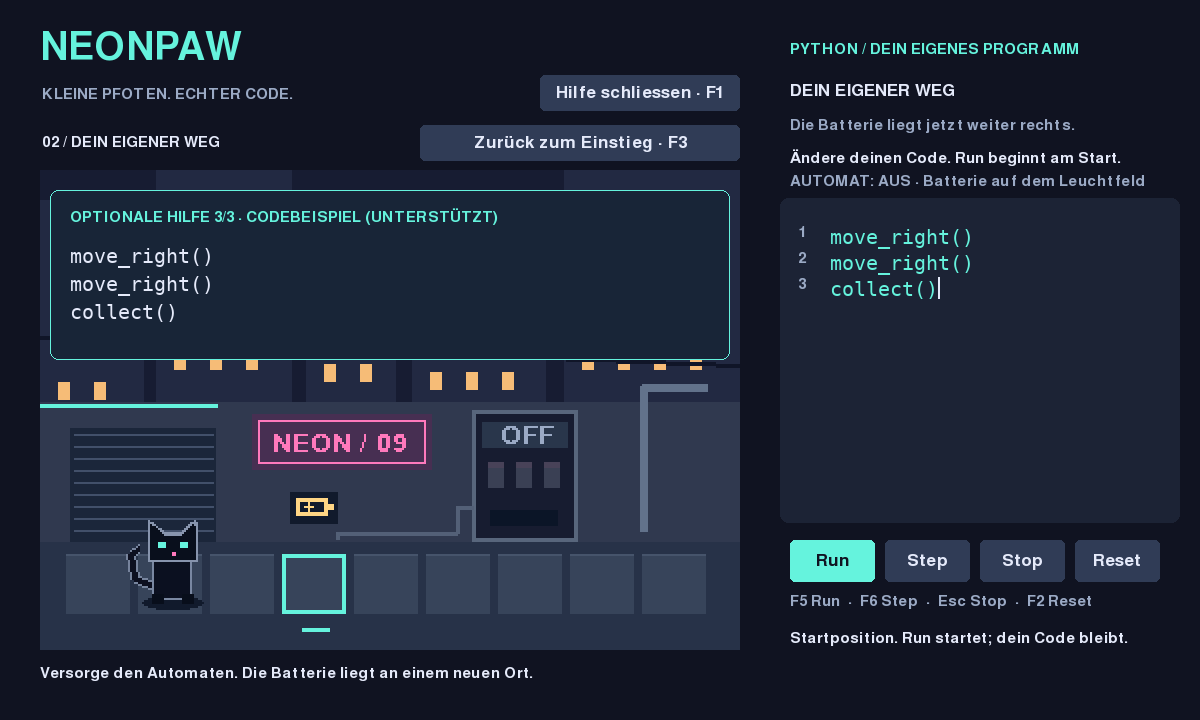
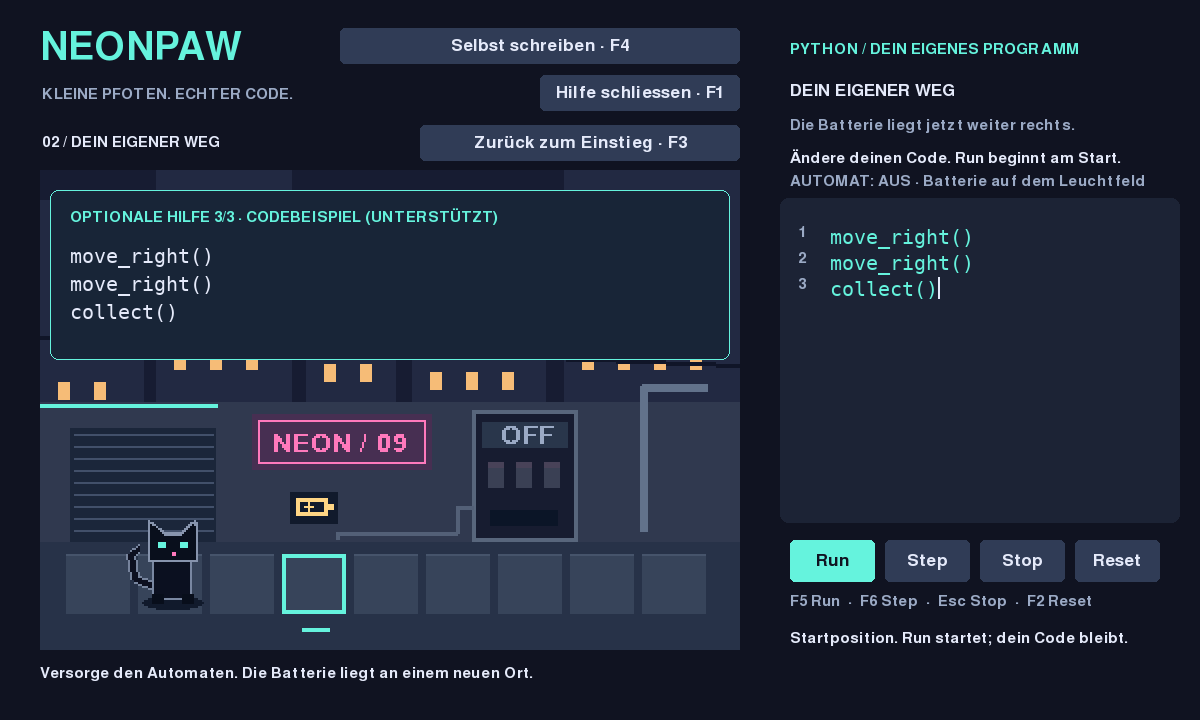
feat: finish recall exercise with verified draft recovery and UI smoke

Changed region(s): [[0.2775, 0.0306, 0.6167, 0.0917]]

diff --git a/tests/smoke_app.py b/tests/smoke_app.py
@@ -66,6 +66,38 @@ for _ in range(3):
     frame(dt=.5)
 assert app.runner.world.powered and not app.used_example
 pygame.image.save(app.canvas, 'evidence/transfer-solved.png')
+# A voluntary recall attempt starts blank without destroying either draft.
+original_program = app.source
+click('Abruf')
+assert app.recall_active and app.source == ''
+pygame.image.save(app.canvas, 'evidence/recall-empty.png')
+click('Run')
+frame(dt=.5)
+assert not app.runner.world.powered
+frame(pygame.event.Event(pygame.TEXTINPUT, text='move_right()'))
+click('Abruf')
+assert app.source == original_program and not app.recall_active
+click('Abruf')
+assert app.source == 'move_right()'
+frame(pygame.event.Event(pygame.TEXTINPUT, text='\nmove_right()\ncollect()'))
+click('Step')
+assert app.runner.world.x == 2
+click('Stop')
+frame(dt=2)
+assert not app.runner.world.powered
+click('Run')
+for _ in range(3):
+    frame(dt=.5)
+assert app.runner.world.powered
+pygame.image.save(app.canvas, 'evidence/recall-solved.png')
+click('Reset')
+assert app.source == original_program and not app.runner.world.powered
+for _ in range(3):
+    click('Hilfe')
+assert app.used_example and app.source == original_program
+click('Abruf')
+assert app.source == original_program and not app.used_example
+
 click('Reset')
 assert app.runner.world.battery_x == 3 and not app.runner.world.powered
 preserved = app.source
@@ -93,7 +125,7 @@ assert app.runner.status == 'error' and app.runner.world.x == 1
 pygame.image.save(app.canvas, 'evidence/current-error.png')
 frame(pygame.event.Event(pygame.QUIT))
 assert not app.alive
-print('PASS: SDL queue -> editor -> Run/Step/Stop/Reset -> collect -> transfer -> unchanged-code refusal -> user edit -> power -> optional hints -> reset -> errors -> quit')
+print('PASS: SDL queue -> editor -> Run/Step/Stop/Reset -> collect -> transfer -> unchanged-code refusal -> user edit -> power -> blank recall -> draft restoration -> recall solution -> optional hints -> reset -> errors -> quit')
 print('Video driver:', pygame.display.get_driver())
 print('Physical desktop interaction / human usability: NOT_TESTED')
 pygame.quit()

diff --git a/neonpaw/ui/app.py b/neonpaw/ui/app.py
@@ -24,6 +24,7 @@ class App:
         self.recall_active = False
         self.recall_available = False
         self.saved_editor = None
+        # Each editor snapshot retains source, cursor, hint stage and example use.
         self.recall_draft = ('', 0, 0, False)
         self.scenario = 0
         self.hint_level = 0

diff --git a/CURRENT.md b/CURRENT.md
@@ -1,15 +1,15 @@
-# CURRENT — 2026-11-05 — Transferaufgabe implementiert
+# CURRENT — 2026-11-06 — Abrufschritt gerettet und abgeschlossen
 
-- M: Sauberer Branch g0/first-cat-action von 7bad76c auf 5c67e51 fast-forward aktualisiert. Kein ungesichertes lokales Material vorhanden. AGENTS/CURRENT/NEXT_TASK/CHATGPT_REVIEW_G1_LEARNING gelesen.
-- O: Der erste Windows-G0-Test zeigte nachvollziehbare Bewegung, aber nur Run auf vorgegebenen Code; kein eigener Programmiernachweis. Aktuelle Build-Version nicht durch Owner auf Windows getestet.
-- M: Implementierung `207ed14d79571d63277dc6007ae07b35556e2b61`: zwei Szenarien mit einem Positionsparameter, gemeinsame Welt/Runner. Nach Erfolg Weiter oder sofort Freier Einstieg; bestehender Code bleibt, Batterie und Ziel versetzt. Kein ungefragtes Beispiel oder automatisches Codeeinsetzen.
-- M: Transfer startet neue Versuche am Anfang; alte Lösung scheitert auch bei wiederholtem Run/Step. Run nach pausiertem Step setzt fort. Einstieg bleibt unverändert. Reset behält Szenario und Code.
-- M: Drei freiwillige Hilfestufen: Beobachtung, Denkhinweis, expliziter Button Beispiel anzeigen. Beispiel setzt/führt keinen Code ein/aus. Kennzeichnung mit Codebeispiel bleibt über Reset erhalten; kein permanentes Lernprofil.
-- M: Baseline 45 passed; Transfer-RED sechs Tests fehlgeschlagen wegen fehlender Szenario-/UI-Funktion. GREEN 51 passed. Zwei zusätzliche Charakterisierungstests für Step-Fortsetzung/Shortcuts sofort grün. Final/Refactor: 53 passed, Exit 0 (`evidence/transfer-refactor.txt`).
-- M: SDL-Offscreen-Smoke Exit 0: Einstieg, Szenariowechsel, unveränderte Lösung scheitert, Textinput-Änderung gewinnt, Hilfestufen, Reset, Welt-/Syntaxfehler, Quit (`evidence/transfer-smoke.txt`). Screenshots visuell geprüft. Keine Behauptung eines physischen Desktop- oder Human-Tests.
-- G: ChatGPT-Review meldete zum Review-Zeitpunkt keinen offenen PR. M: aktuelle gh-pr-Abfrage GraphQL Forbidden, daher PR-Status aktuell UNKNOWN; kein PR erstellt. Git-Push am Abschluss separat prüfen.
-- OPEN: HUMAN_LEARNING_NEEDS_TEST / HUMAN_FUN_NEEDS_TEST; aktuelle Windows-/DPI-Prüfung offen, NO_CI. Technische Lösung ist kein Beweis eigenen Verständnisses. Keine neue Syntax, keine neue Abhängigkeit, keine Subagenten.
-- Start: `.venv/bin/python -m neonpaw`; Windows start_windows.bat, Python 3.12+, erste Installation benötigt Internet. Weiter/Freier Einstieg F3, Hilfe F1.
-- Sicherung: Implementierungscommit oben plus nachfolgender Dokumentationscommit; vollständiges geprüftes Bundle /workspace/Catworld-Transfer.bundle und Quellbuild /workspace/Catworld-Transfer.zip am finalen HEAD.
-- Nächste einzelne Aufgabe: kleiner Abrufschritt ohne neue Syntax — bekannte Befehlsfolge selbst aus leerem Editor erstellen; vor Umsetzung aktuellen Lernreview/Owner-Rückmeldung prüfen. Fehlende Menschenrückmeldung allein blockiert keine technische Arbeit.
-- Wiederaufnahme: git status -sb; git log -3 --oneline; .venv/bin/python -m pytest -q; NEXT_TASK lesen.
+- M: Ausgangs-HEAD lokal e32eed08310405396f99e40e86116c34b7ea5e5c, mit uncommittetem Abruf-Code, tests/test_recall.py und RED/GREEN-Logs. Vor Fetch erneut 58 Tests grün, Rettungscommit 0469ae86e0e95b2de3af0f40f69b0c398c35f7f5; /workspace/Catworld-resume-2026-11-06.bundle erfolgreich geprüft.
+- M: Remote-HEAD beim Abruf 6358fd88ae7d5e3fcf39c58e516721b7a4709a85. Nur CODEX_RESUME_2026-11-06.md neu. Nach Backup konfliktfrei lokal integriert in 4a03027. Keine Resets, Force-Pushs oder PR-Merges.
+- M: Abruf war bereits implementiert, daher nicht doppelt gebaut. Jetzt vollständig technisch geprüft: nach Transfer-Erfolg optional F4, zunächst leerer Editor; ursprüngliche Eigenlösung und neuer Entwurf mitsamt Cursor/Hilfestatus bleiben beim Wechsel erhalten. Reset löscht keinen Text. Rückkehr bricht offene Ausführung ab. Gleiche Simulation und sichere Befehle.
+- M: RED des begonnenen Batches: 5 Tests fehlgeschlagen wegen fehlendem Abruf-Button (recall-red.txt). GREEN und frisch wiederholt: 58 passed, Exit 0 (recall-final-tests.txt). Alte G0/G1/Transfer-Tests enthalten.
+- M: SDL-Offscreen-Smoke erweitert und Exit 0: leerer Abruf, echte Texteingabe, Run/Step/Stop/Reset, beide Entwürfe wiederhergestellt, Hilfestatus, Welt-/Syntaxfehler und Quit (recall-smoke.txt). Screenshot recall-empty.png visuell geprüft. Kein physischer Desktop-Test.
+- M: Keine Thread-/Zeitplan-Automationsfunktion in den verfügbaren Tools. KEINE tägliche Automation eingerichtet, kein Scheduler-Ersatz gebaut. Manuelle oder separat im Produkt eingerichtete Fortsetzung bleibt erforderlich.
+- M: gh pr list weiterhin GraphQL Forbidden; aktuelle offene PRs UNKNOWN. Kein PR erstellt, keine zusätzlichen Agenten. Git-Push am Abschluss gesondert verifizieren.
+- O/G: Owner beobachtete den ursprünglichen G0-Run unter Windows, keinen eigenen Lernnachweis. Aktuelle Version: HUMAN_LEARNING_NEEDS_TEST / HUMAN_FUN_NEEDS_TEST, Windows-/DPI-Check offen. NO_CI.
+- Grenze: Entwürfe sind bisher nur innerhalb der Sitzung erhalten; Schliessen des Spiels verliert sie. Keine unbelegten dauerhaften Speicherbehauptungen.
+- Start: `.venv/bin/python -m neonpaw` oder Windows start_windows.bat. F3 Transfer, F1 optionale Hilfe, F4 nach Transfer-Erfolg Abruf/Rückkehr.
+- Checkpoint: finale SHA mit git log -1 prüfen; /workspace/Catworld-Recall.bundle und /workspace/Catworld-Recall.zip werden am Abschluss-HEAD erzeugt und Bundle geprüft.
+- Nächste einzelne Aufgabe: beide eigenen Programmentwürfe auch über Spielneustarts erhalten, ohne automatische Ausführung. Keine neue Sprachsyntax.
+- Wiederaufnahme: git status -sb und git log -5; lokale Arbeit vor Fetch sichern; Reviews lesen; `.venv/bin/python -m pytest -q`; SDL-Smoke bei UI-Änderungen.

diff --git a/NEXT_TASK.md b/NEXT_TASK.md
@@ -1,18 +1,20 @@
-# Nächster kleiner Lernschritt: selbst abrufen
+# Nächster kleiner Schritt: eigene Programme behalten
 
-Transfer umgesetzt in 207ed14: alte Lösung bleibt erhalten, Batterie wandert ein Feld
-weiter, eigene Änderung erforderlich, Hilfen nur optional. 53 Tests und SDL-Smoke grün.
-Keine Doppelimplementierung; tatsächlichen HEAD/Review zuerst prüfen.
+Abruf aus leerem Editor ist implementiert und geprüft: 58 Tests sowie SDL-Smoke.
+Nicht noch einmal bauen. Die Eigenlösung und der Abrufentwurf bleiben bisher nur
+während einer Sitzung erhalten; nach dem Schliessen fehlen sie.
 
-Kleinste passende Fortsetzung: nach erfolgreichem Transfer optional einen bekannten
-Auftrag aus einem leeren Editor lösen. Kein neuer Befehl, keine neue Engine und keine
-Schleifen. Bisherigen selbst geschriebenen Code beim Wechsel aufbewahren, nicht löschen;
-Rückkehr muss möglich sein. Hilfe weiterhin nur auf Wunsch, Beispiele als unterstützt
-kennzeichnen. Erfolg allein ist noch kein Verständnisnachweis.
+Kleinste sinnvolle Fortsetzung: beide selbst geschriebenen Texte lokal speichern
+und beim nächsten Start wieder bereitstellen. Keine Cloud, Accounts oder neue
+Sprachsyntax. Vorhandene Entwürfe nicht blind überschreiben; atomar schreiben,
+Format/Länge beim Lesen begrenzen, beschädigte Daten verständlich melden und
+Wiederherstellung ermöglichen. Geladener Text darf niemals automatisch laufen.
+Keine allgemeine Spielstand-/Migrationsengine bauen.
 
-Wenn Owner-Rückmeldung vorliegt: zuerst konkrete Verwirrung reproduzieren und beheben.
-Kurzer Lerncheck: nächsten Befehl vorhersagen, erklären warum die alte Folge nicht mehr
-passte, dann eine bekannte Folge selbst schreiben. Beobachtungen als O/M unterscheiden.
-Ohne Tester keine menschlichen Lernerfolge behaupten und keine Warteschleife erzeugen.
-Red/Green, bestehende Regressionen, SDL-Eingaben und Wiederherstellbarkeit belegen.
-Keine weiteren Lernsysteme in derselben Etappe.
+RED zuerst für Speichern, Neustart/Wiederherstellen, defekte Daten und fehlende
+Schreibrechte; bestehende Run/Step/Stop/Reset- und Abruf-Tests erhalten. SDL-Smoke
+mit Neustart und wiedergefundenem Text. Persönliche Testdaten nicht committen.
+Menschlicher Lernwert weiterhin offen markieren; echte neue Reviews priorisieren.
+
+Bei Kapazitätsgrenze vor neuer Arbeit Commit + geprüftes Bundle + CURRENT sichern.
+Keine behauptete tägliche Automation: hier derzeit nicht verfügbar.

diff --git a/PROGRESS_LOG.md b/PROGRESS_LOG.md
@@ -58,3 +58,9 @@ RED: sechs neue Tests fehlgeschlagen (fehlender Runner-Parameter/Transfer-Button
 UI: SDL-Eventqueue mit Button-Klicks und Textinput, alte Lösung wiederholt erfolglos, geänderte Folge erfolgreich, Hilfestufen/Reset/Szenariowechsel/Fehler/Quit geprüft, Exit 0 (transfer-smoke.txt). Screenshots visuell kontrolliert. Nur offscreen; menschliches Verständnis und Spass offen.
 Learnings L011 (Bedienung != Lernen) und L012 (Run-Akkumulation umgeht Transfer) direkt ergänzt. Keine neuen Abhängigkeiten oder Agenten. gh pr list weiterhin Forbidden, kein PR erstellt. Git-Push nach Checkpoint separat bestätigen.
 Nächste einzelne Aufgabe: unabhängiger Abruf derselben Befehle, ohne neue Syntax und ohne bestehenden Code zu verlieren.
+
+## 2026-11-06 — Wiederaufnahme ohne Datenverlust; Abruf abgeschlossen
+M: Lokal e32eed0 plus uncommitteter Abruf-Schritt, 58 Tests frisch bestanden. Rettung vor Fetch: 0469ae8 und geprüftes Catworld-resume-2026-11-06.bundle. Remote 6358fd8 enthielt nur Handoff; konfliktfreie lokale Integration 4a03027. Kein PR-Merge oder Force-Push. Keine Doppelimplementierung.
+M: Gestarteter Batch hatte 5 RED-Fehler, danach 58 GREEN. Vollständige erneute Suite 58 passed / Exit 0 (recall-final-tests.txt). SDL-Smoke nun auch Abruf, echte Eingabe, Rückkehr zu beiden Entwürfen, Stop/Reset/Hilfen, erfolgreiche Weltreaktion und Quit; Exit 0 (recall-smoke.txt). Screenshot visuell geprüft, Human-/Windows-Test der aktuellen Version offen.
+M: Keine verfügbare Thread-Automationsfunktion; keine tägliche Automation und kein Scheduler eingerichtet. Ein Integrator, keine Subagenten. gh pr list weiter Forbidden; kein PR behauptet. Learning L013 zur lokal/remote unterschiedlichen Evidenz ergänzt.
+Spielschritt: freiwilliges Schreiben aus leerem Editor nach Transfer-Erfolg; Eigenlösung und Abrufentwurf samt Hilfestatus innerhalb Sitzung erhalten. Noch keine dauerhafte Speicherung. Nächste einzelne Aufgabe: diese Texte über Neustarts erhalten, ohne Auto-Ausführung.

diff --git a/README.md b/README.md
@@ -1,10 +1,10 @@
-# CATWORLD / NEONPAW — Dein eigener Weg
+# CATWORLD / NEONPAW — Selbst aufbauen
 
 Eine schwarze Pixelkatze, eine Neon-Gasse, dein erster Python-Befehl.
 `move_right()` bewegt die Katze genau ein Feld nach rechts.
 `collect()` nimmt die Batterie auf dem Leuchtfeld auf und schaltet den verbundenen Automaten ein.
 
-![Transferaufgabe mit versetzter Batterie](evidence/transfer-start.png)
+![Selbst schreiben, ohne die Eigenlösung zu verlieren](evidence/recall-empty.png)
 
 ## Start (Python 3.12 oder neuer)
 
@@ -72,6 +72,19 @@ Hilfe erscheint ausschliesslich auf Klick. Nach zwei Tipps steht auf dem Button
 oder auszuführen. Solche Versuche werden als „mit Codebeispiel“ gekennzeichnet;
 Reset löscht diese Kennzeichnung nicht. Sie ist nur eine Sitzungsanzeige, kein
 Lernnachweis oder dauerhaftes Profil.
+
+## Selbst aufbauen — ohne Vorlage
+
+Nach einem erfolgreichen Transfer erscheint **Selbst schreiben / F4**.
+Der bekannte Auftrag startet mit leerem Editor. Schreibe die Folge selbst;
+die drei Hilfestufen bleiben optional. Deine bisherige Eigenlösung wartet unter
+**Zur Eigenlösung / F4** (auch F3). Auch ein unfertiger Abrufentwurf bleibt beim
+Zurückwechseln erhalten. Reset setzt nur die Welt zurück, nicht deinen Text.
+
+Beide Texte, Cursor und Hilfestatus bleiben **innerhalb der laufenden Sitzung**
+erhalten. Es gibt noch keine Speicherung über das Schliessen des Spiels hinaus.
+Ein leeres Programm schaltet den Automaten nicht ein. Erfolg zeigt die Weltreaktion,
+beweist aber nicht, dass der Spieler die Reihenfolge selbst verstanden hat.
 
 ## Nachweise
 
